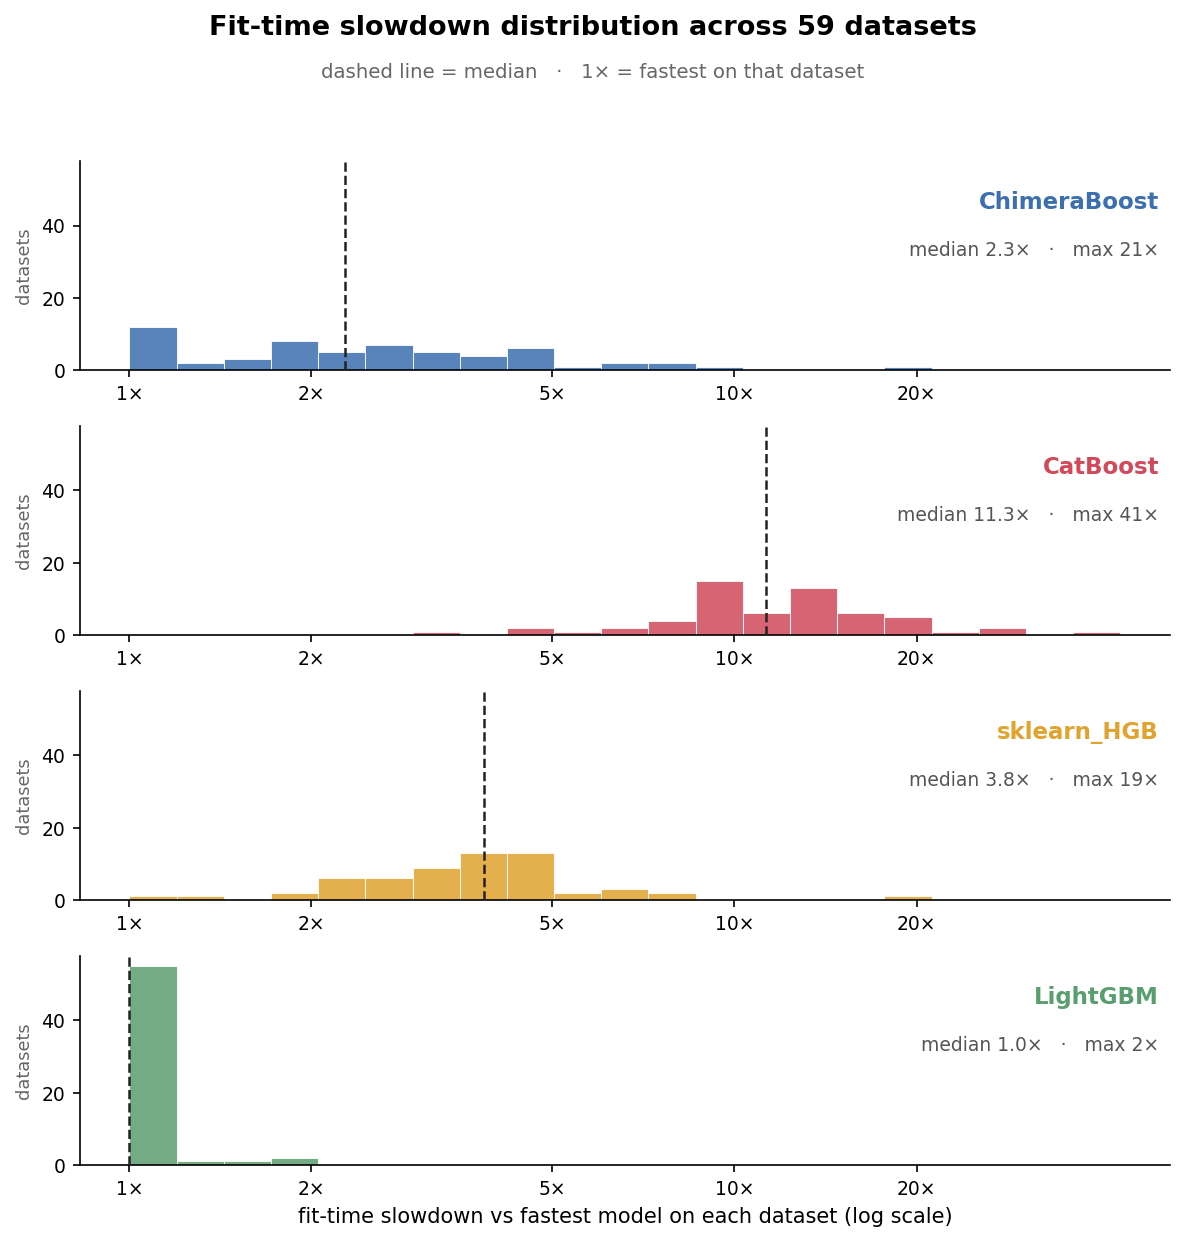
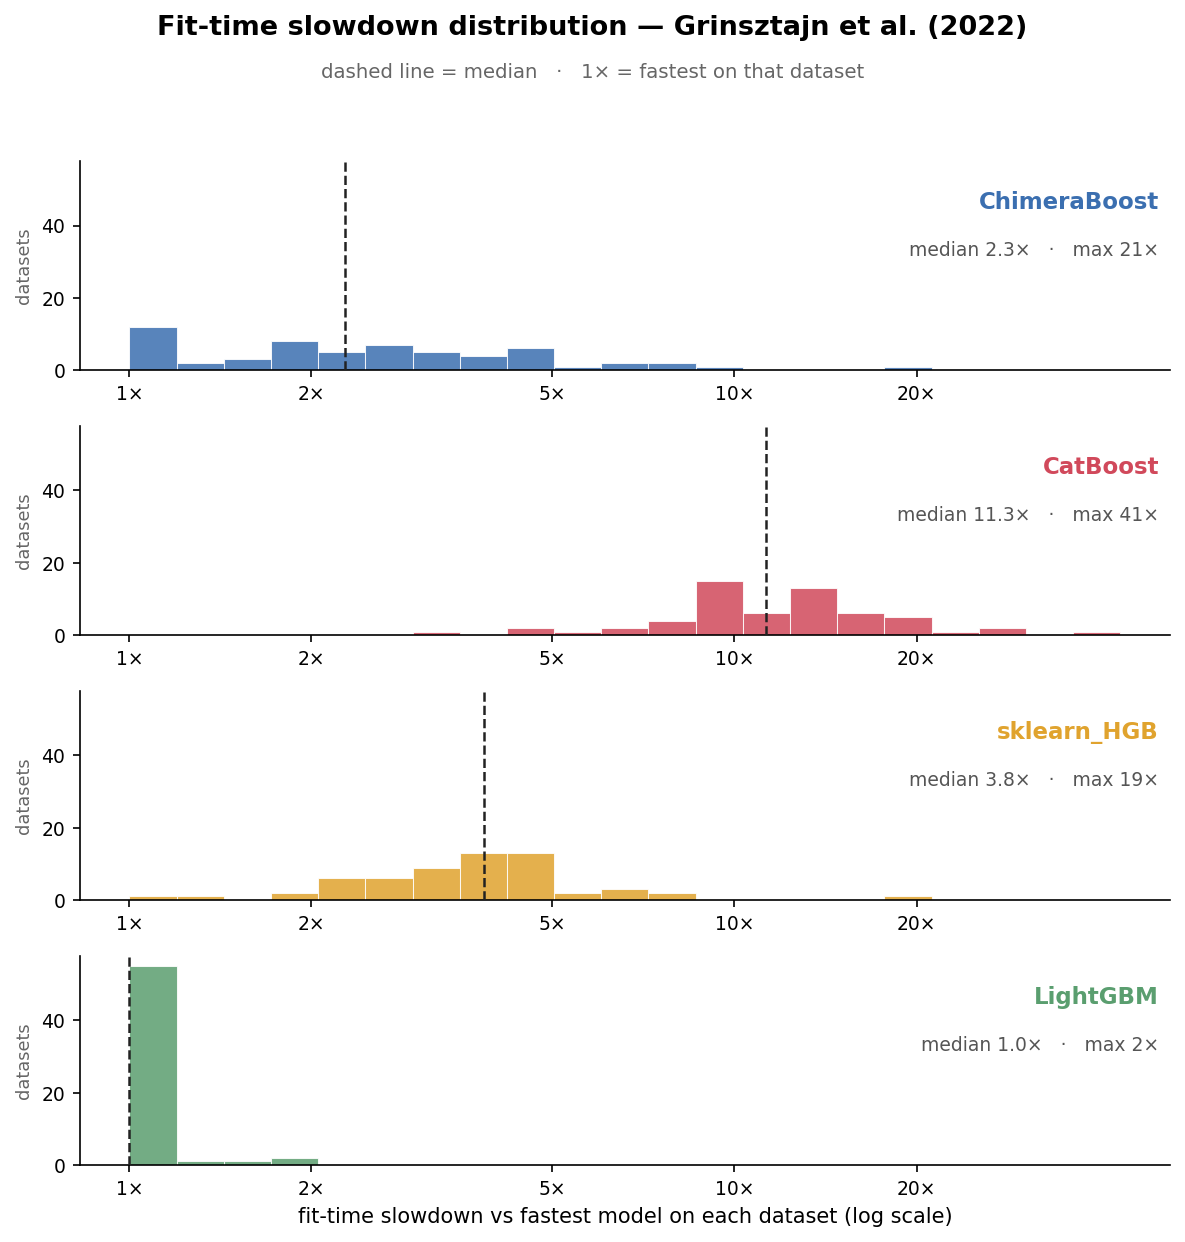
Cite Grinsztajn et al. (2022) in benchmark captions and images

Changed region(s): [[0.1249, 0.0, 0.8743, 0.0306]]

diff --git a/benchmarks/summarize.py b/benchmarks/summarize.py
@@ -160,8 +160,9 @@ def format_table(data, label=None):
         row = f"{m:<22}" + "".join(_fmt(cols[c].get(m), c) for c in COLS)
         lines.append(row)
     seeds = f" | {meta['seeds']} seeds" if meta.get("seeds") else ""
-    cap = (f"{meta['n_total']} datasets ({meta['n_reg']} reg, "
-           f"{meta['n_bin']} binary, {meta['n_mul']} multiclass){seeds} | "
+    cap = (f"Grinsztajn et al. (2022) — {meta['n_total']} datasets "
+           f"({meta['n_reg']} reg, {meta['n_bin']} binary, "
+           f"{meta['n_mul']} multiclass){seeds} | "
            f"100% = best | Calib MCB x10^-3 lower=better | Speed vs fastest")
     lines.append(cap)
     return "\n".join(lines)

diff --git a/benchmarks/make_slowdown_hist.py b/benchmarks/make_slowdown_hist.py
@@ -108,8 +108,8 @@ def render(slowdowns, n_datasets, out_path):
     axes[-1].set_xlabel("fit-time slowdown vs fastest model on each dataset (log scale)",
                         fontsize=10)
 
-    fig.suptitle("Fit-time slowdown distribution across "
-                 f"{n_datasets} datasets", fontsize=13, fontweight="bold",
+    fig.suptitle("Fit-time slowdown distribution — Grinsztajn et al. (2022)",
+                 fontsize=13, fontweight="bold",
                  y=0.98)
     fig.text(0.5, 0.93, "dashed line = median   ·   1× = fastest on that dataset",
              ha="center", fontsize=9.5, color="#666")

diff --git a/benchmarks/make_tables.py b/benchmarks/make_tables.py
@@ -424,7 +424,7 @@ def main():
         sum_table, models, sum_col_labels, sum_groups,
         title="ChimeraBoost vs other GBMs",
         subtitle=("avg % vs best  ·  Calib = miscalibration ×10⁻³ (lower better)  "
-                  f"·  fit time as × slowdown  ·  {len(all_ds)} datasets"),
+                  f"·  fit time as × slowdown  ·  Grinsztajn et al. (2022)"),
         out_path=os.path.join(out_dir, "summary.png"),
         col_kinds=sum_col_kinds,
     )